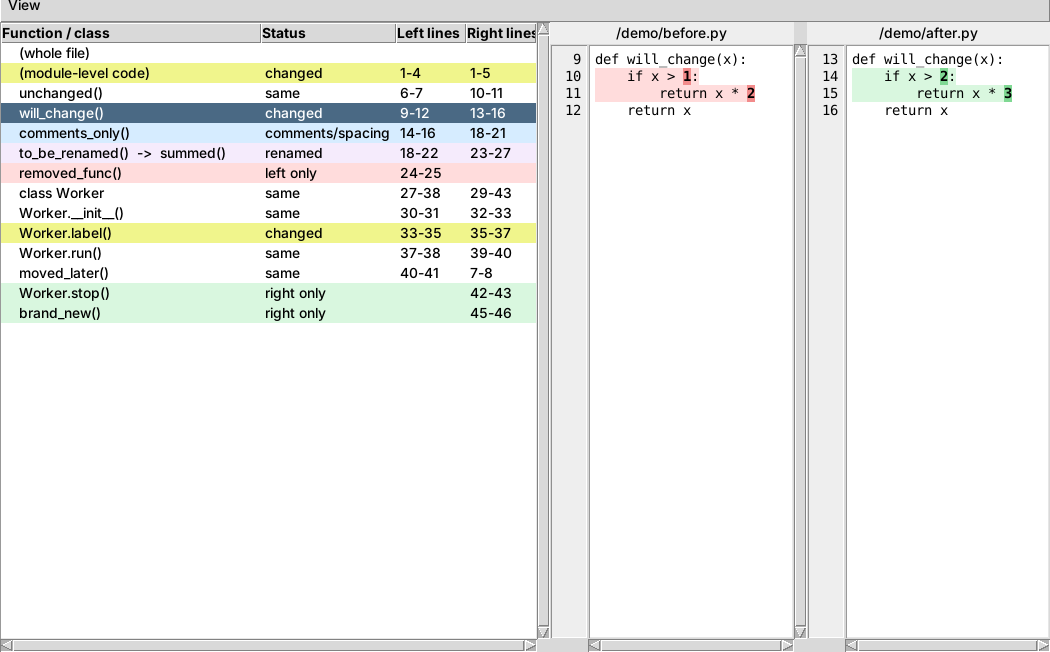
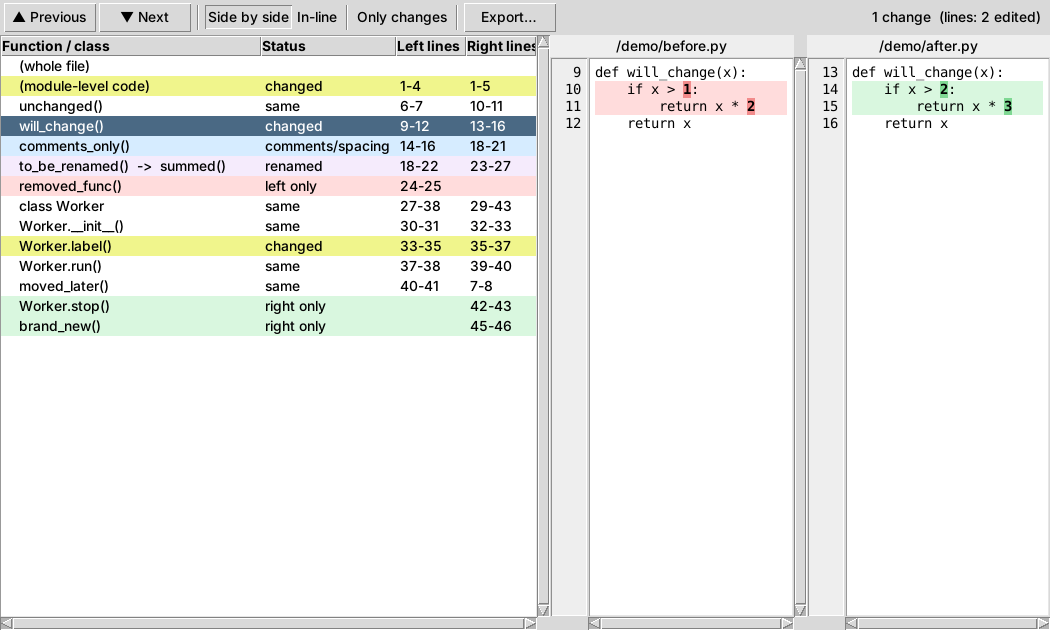
Add files via upload

diff --git a/pydiff.py b/pydiff.py
@@ -132,8 +132,10 @@ def check_dependencies():
         return False
 
     # 2. pydiff's own files (catches an incomplete download or copy).
-    for part in (('ui', 'mainwindow.py'), ('ui', 'diffview.py'), ('ui', 'functioncompare.py'),
-                 ('utilities', 'difflibparser.py')):
+    for part in (('ui', 'mainwindow.py'), ('ui', 'mainwindow_ui.py'), ('ui', 'diffview.py'),
+                 ('ui', 'functioncompare.py'), ('ui', 'searchtextdialog.py'),
+                 ('utilities', 'diffengine.py'), ('utilities', 'textfiles.py'),
+                 ('utilities', 'settings.py'), ('utilities', 'gittools.py')):
         if not os.path.isfile(os.path.join(APP_DIR, *part)):
             report('pydiff is incomplete',
                    'This file is missing:\n%s\n\nPlease download pydiff again.'

diff --git a/CHANGES.md b/CHANGES.md
@@ -10,6 +10,11 @@ Every bug listed under "Bug fixes" was reproduced with the original code before 
 
 - **8 bug fixes**: wrong or garbled text, scrolling, search, folder comparison and more.
 - **New: function-by-function comparison** for Python files.
+- **New: faster comparison engine**: large, heavily edited files compare in a fraction of a second rather than minutes.
+- **New: toolbar** with previous/next change navigation, side-by-side or **in-line** view, **only changes** mode, and **export** to HTML or .diff.
+- **New: git integration**: compare a file with its last (or any) commit, and use pydiff as git's diff viewer.
+- **New: UTF-16 and binary file handling**, encoding and line-ending notes, and an option to ignore line-ending-only differences in folder comparisons.
+- **New: start maximised**, and view choices remembered between runs.
 - **New: one-click Windows launcher** (`Run_PyDiff.bat`) with automatic dependency checks.
 - **Clearer highlighting**: readable text selection, bolder changed characters.
 - **Better error handling**: problems are reported instead of failing silently.
@@ -61,7 +66,7 @@ Every bug listed under "Bug fixes" was reproduced with the original code before 
 - **Files:** `ui/mainwindow.py`
 
 ### 8. Smaller fixes
-- The Paste menu item showed the shortcut **Ctrl+P** instead of **Ctrl+V**.
+- The Paste menu item showed the shortcut **Ctrl+P** instead of **Ctrl+V**. (Cut and Paste were later removed from the Edit menu altogether: the panes are read-only, so they never did anything.)
 - Cancelling the second file in *Compare Files* left the window half-loaded; it now cancels cleanly.
 - `utilities/fileio.py` called `showerror` without importing it, so it would crash if a file failed to load.
 - Selecting a file in the folder tree could misread paths that look like numbers (Tk converts them to integers); paths are now always treated as text.
@@ -86,8 +91,7 @@ Both files are parsed with Python's own parser (the standard `ast` module). Ever
 
 Clicking an entry shows the diff of just that function, with real line numbers. Code outside any function (imports, constants) is grouped as *(module-level code)*. A class entry covers the class's own lines (header, class attributes), while its methods are listed separately. *View → Show only differences* hides unchanged entries.
 
-- **New files:** `ui/functioncompare.py` (parsing, matching and the window), `ui/diffview.py`
-- **Why `ui/diffview.py`:** the side-by-side drawing code was moved out of `MainWindow` into a shared `render_diff()` function, so the main window and the function window use the same code. It also accepts real line numbers, so a single function shows its true position in each file.
+- **New files:** `ui/functioncompare.py` (parsing, matching and the window). The drawing is shared with the main window through `ui/diffview.py` (see below), so the function window has the same toolbar and views.
 
 ### One-click Windows launcher: `Run_PyDiff.bat`
 - Finds a working Python **3.8 or newer**. Any later version is accepted, including a future 4.x, and the newest installed is preferred. It skips the Microsoft Store placeholder `python.exe`, which isn't a real Python.
@@ -109,8 +113,48 @@ Checks are quick, and anything already installed is left alone.
 
 ### Works when downloaded as a ZIP
 - **Problem:** The original kept the diff parser (`difflibparser`) as a git *submodule*. GitHub's **Download ZIP** doesn't include submodules, so ZIP downloads had an empty `difflibparser` folder and pydiff couldn't start.
-- **Fix:** An unmodified copy of `difflibparser.py` (same author, same MIT licence, with its original copyright notice) is now included directly as `utilities/difflibparser.py`, and pydiff uses that copy. Both ZIP downloads and plain `git clone` now work with no extra steps. The old submodule folder is no longer used.
-- **Files:** `utilities/difflibparser.py` (new), `ui/diffview.py`, `pydiff.py`
+- **Fix:** At first, a copy of the parser was included directly in the repository. It has since been replaced altogether by pydiff's own comparison engine (see *New comparison engine* below), so pydiff no longer needs the submodule at all. Both ZIP downloads and plain `git clone` work with no extra steps; the old `difflibparser` submodule folder is unused.
+- **Files:** `ui/diffview.py`, `pydiff.py`
+
+### New comparison engine (much faster)
+- **Problem:** The original used `difflib.ndiff`, which compares every removed line with every added line inside a changed block, looking for the best match. On large files with lots of edits this is very slow. In testing, 600 reformatted lines took **15 seconds**, and time grows with the square of the block size.
+- **Fix:** `utilities/diffengine.py` matches whole lines first (`difflib.SequenceMatcher`), then pairs each edited line with its closest partner within a few lines, and only then works out which characters changed. As in `ndiff`, blank lines aren't used as anchors, so an inserted blank line doesn't split an edited line from its new version.
+- **Result:** the same 3,000-line reformatted file takes **0.7 seconds**; two 20,000-line files with 2,000 scattered edits are compared *and drawn* in about **0.2 seconds**. Drawing is also faster: all text is inserted in one go and then coloured, instead of line by line and character by character.
+- The engine produces one shared list of rows, which the side-by-side view, the in-line view, *Only changes*, navigation and export all use.
+- **Files:** `utilities/diffengine.py` (new). The old `difflibparser` is no longer used.
+
+### Toolbar and views (`ui/diffview.py`)
+A toolbar above the panes, in both the main window and the function window:
+- **▲ Previous / ▼ Next change** (also **Alt+Up / Alt+Down**, and in the View menu). The status text shows *"Change 3 of 12"* and the change's line numbers are highlighted.
+- **Side by side / In-line.** The in-line view uses one pane: in each block of changes, the removed lines (red, marked `-`) are shown above the added ones (green, `+`), with both files' line numbers in the margin, as on GitHub.
+- **Only changes** hides unchanged stretches, leaving a bar saying *"⋯ 120 unchanged lines hidden ⋯"*. *View → Lines of Context Around Changes* sets how many unchanged lines are kept around each change (default 3).
+- **Status text** summarising the differences (*"5 changes (lines: 3 edited, 1 removed, 4 added)"*), plus notes when the two files' encodings or line endings differ.
+- **Go To Line** now goes to the correct line in every view (it uses the real line numbers, not screen position).
+
+### Export results
+**File → Export Results…** (**Ctrl+E**) or the **Export…** button saves:
+- an **HTML report**: a self-contained web page matching the current view (side by side or in-line, all lines or only changes), with the same colours and character-level highlighting. It offers to open it in your browser straight away.
+- a **unified diff / patch file** (`.diff`, `.patch`): the standard format used by git and patch tools.
+
+### Git integration (`utilities/gittools.py`)
+A new **Git** menu:
+- **Compare File With Last Commit** (**Ctrl+L**) and **Compare File With Commit…** (any commit, branch or tag, e.g. `HEAD~1`). The committed version is fetched with `git show` into a temporary file and compared with the current file. Clear messages explain if git isn't installed, the file isn't in a repository, the commit doesn't exist, or the file is new since that commit.
+- **Use pydiff as Git's Diff Viewer…** shows the exact commands, asks first, then registers pydiff with `git config --global` so that `git difftool` (and `git difftool -d` for whole folders) opens pydiff. `git diff` is unaffected. Tested with paths containing spaces.
+
+### Text encodings and binary files (`utilities/textfiles.py`)
+- **UTF-16** text files (with or without a byte-order mark) are now read correctly. Before, they showed as spaced-out gibberish. Windows writes UTF-16 for registry exports, some PowerShell output, and Notepad's "Unicode" option.
+- **Binary files** (images, PDFs, Word documents ...) are recognised. Instead of gibberish, pydiff says it can't show their contents and whether the two files are identical or different.
+- Lines are split only on real line endings. Python's `splitlines()` also splits on form feeds and some other characters, which could throw line numbers out compared with a text editor.
+
+### Line endings in folder comparisons
+- Files that differ only in their line endings (Windows CRLF vs Unix LF) are shown in **blue** instead of yellow, and don't mark their folder as changed. *View → Folders: Ignore Line-Ending-Only Differences* turns this off. The comparison itself reports *"Line endings: CRLF → LF"*.
+
+### Start maximised and remembered settings (`utilities/settings.py`)
+- **View → Start Maximised** opens pydiff full-screen every time.
+- The view mode, *Only changes*, context lines, *Start maximised* and the line-endings option are remembered in `.pydiff_settings.json` in the user's home folder. If the file can't be written, nothing breaks.
+
+### Not done: diff-match-patch
+A suggestion on the original project was to use Google's *diff-match-patch* library. Its main advantage would be speed on large files, which the new engine already provides, without adding a third-party package. So it wasn't added.
 
 ## Display and usability
 
@@ -131,6 +175,7 @@ Checks are quick, and anything already installed is left alone.
 
 - Paths can now be given directly (`pydiff.py a.py b.py`) as well as with the original `-p a.py b.py`.
 - New options: `-f` / `--functions` and `--check-deps`.
+- New keyboard shortcuts: **Ctrl+O** (compare files), **Ctrl+E** (export), **Ctrl+L** (compare with last commit), **Alt+Up/Down** (previous/next change).
 - pydiff can be started from any folder. It no longer has to be run from inside its own folder.
 
 ---
@@ -138,7 +183,8 @@ Checks are quick, and anything already installed is left alone.
 ## Compatibility notes
 
 - **Python 3.8 or newer is required.** The original README targeted Python 2.7, which has been unsupported since 2020. The Python 2 import fallbacks in the UI files were left in place but are no longer used.
-- The diff parser is **unchanged**. It is now included as `utilities/difflibparser.py` instead of being fetched as a git submodule.
+- The original `difflibparser` submodule is no longer used; pydiff's own engine (`utilities/diffengine.py`) replaces it. The submodule entry is left in place but is harmless.
+- Every new option is off or matches the old behaviour by default, except two corrections: UTF-16 and binary handling, and line-ending-only differences shown in blue in folder comparisons (which can be switched off).
 - Everything that worked before still works the same way. The new features are additions.
 
 ## Files changed
@@ -146,16 +192,19 @@ Checks are quick, and anything already installed is left alone.
 | File | Status | Summary |
 |---|---|---|
 | `pydiff.py` | modified | dependency checks, argument handling, error reporting, DPI fix |
-| `ui/mainwindow.py` | modified | bug fixes 1, 4-8; Compare Functions menu; uses shared `render_diff` |
-| `ui/mainwindow_ui.py` | modified | scrolling fix, colours, selection, bold changed characters |
+| `ui/mainwindow.py` | modified | bug fixes 1, 4-8; new menus (View, Git); binary/encoding handling; folder line-ending option |
+| `ui/mainwindow_ui.py` | modified | scrolling fix, colours, selection, bold changed characters, toolbar row, menu check/radio items |
 | `ui/searchtextdialog.py` | modified | search position fix |
 | `utilities/fileio.py` | modified | missing import, UTF-8 reading |
-| `ui/diffview.py` | **new** | shared side-by-side diff drawing |
+| `ui/diffview.py` | **new** | toolbar, side-by-side and in-line views, only-changes, navigation, export |
 | `ui/functioncompare.py` | **new** | function-by-function comparison |
-| `utilities/difflibparser.py` | **new** | unmodified copy of the original diff parser, so ZIP downloads work |
+| `utilities/diffengine.py` | **new** | fast comparison engine |
+| `utilities/textfiles.py` | **new** | encoding detection (UTF-8/UTF-16/ANSI), binary detection, line endings |
+| `utilities/gittools.py` | **new** | git integration |
+| `utilities/settings.py` | **new** | remembered settings |
 | `Run_PyDiff.bat` | **new** | Windows one-click launcher |
 | `CHANGES.md` | **new** | this file |
-| `screenshot_main.png`, `screenshot_functions.png` | **new** | screenshots for the README |
+| `screenshot_main.png`, `screenshot_inline.png`, `screenshot_functions.png` | **new** | screenshots for the README |
 | `README.md` | rewritten | clearer setup and usage instructions |
 | `LICENSE` | modified | added a copyright line for the modifications; original notice kept |
 

diff --git a/README.md b/README.md
@@ -1,10 +1,12 @@
 # pydiff - A Minimalistic Difflib GUI
 
-A simple desktop app for comparing two text files, or two folders, side by side, with the differences highlighted. It also has a **function-by-function comparison mode for Python files**.
+A simple desktop app for comparing two text files, or two folders, side by side or in-line, with the differences highlighted. It also has a **function-by-function comparison mode for Python files** and **git integration**.
 
-This is a modified version of [pydiff](https://github.com/yelsayd/pydiff) by Yasser Elsayed. It fixes a number of bugs, adds function-level comparison and adds a one-click Windows launcher. See [CHANGES.md](CHANGES.md) for exactly what changed and why.
+This is a modified version of [pydiff](https://github.com/yelsayd/pydiff) by Yasser Elsayed. It fixes a number of bugs and adds many features: function-level comparison, a faster comparison engine, an in-line view, change navigation, export, git integration and a one-click Windows launcher. See [CHANGES.md](CHANGES.md) for exactly what changed and why.
 
-![Comparing two files](screenshot_main.png)
+![Comparing two files side by side](screenshot_main.png)
+
+![In-line view, showing only the changes](screenshot_inline.png)
 
 ![Comparing two Python files function by function](screenshot_functions.png)
 
@@ -15,13 +17,14 @@ This is a modified version of [pydiff](https://github.com/yelsayd/pydiff) by Yas
 - **Python 3.8 or newer**, from [python.org](https://www.python.org/downloads/).
   When installing on Windows, tick **"Add python.exe to PATH"**. Also leave **"tcl/tk and IDLE"** selected (it is by default), because pydiff's window toolkit, Tkinter, comes from there.
 - No other packages. pydiff uses only the Python standard library.
+- *Optional:* [git](https://git-scm.com/downloads), for the Git menu.
 
 ## Getting it
 
 Either:
 
 - **Download ZIP:** click the green **Code** button on this page, then **Download ZIP**, and unzip it anywhere, or
-- **Clone with git:** `git clone https://github.com/YOUR-USERNAME/pydiff.git`
+- **Clone with git:** `git clone https://github.com/Constantinos999/pydiff.git`
 
 Everything pydiff needs is included either way.
 
@@ -31,7 +34,7 @@ Everything pydiff needs is included either way.
 
 Double-click **`Run_PyDiff.bat`**. It:
 
-1. finds Python on your PC (and offers to install it if there isn't one),
+1. finds Python on your PC (the newest 3.8+ installed; it offers to install Python if there isn't one),
 2. checks that everything pydiff needs is present and fixes anything missing,
 3. opens pydiff without leaving a command window open.
 
@@ -51,9 +54,23 @@ python pydiff.py --check-deps             # just check the dependencies
 
 ## Using it
 
+### The toolbar
+
+| Button | What it does |
+|---|---|
+| **▲ Previous / ▼ Next** | jump to the previous / next change (also **Alt+Up / Alt+Down**). The status text shows e.g. *"Change 3 of 12"*, and the line numbers of that change are highlighted in blue |
+| **Side by side / In-line** | two panes, or one pane with each removed line (red, `-`) shown above its replacement (green, `+`), like GitHub |
+| **Only changes** | hides unchanged stretches, keeping a few lines of context around each change. Set how many under *View → Lines of Context Around Changes* |
+| **Export…** | save the comparison as an **HTML report** (opens in any web browser; matches the current view) or a standard **.diff / .patch** file (also **Ctrl+E**) |
+| **Compare functions** | the function-by-function view for Python files (also **Ctrl+K**) |
+
+The status text on the right summarises the differences, e.g. *"5 changes (lines: 3 edited, 1 removed, 4 added)"*. It also notes when the files use a different **encoding** (e.g. UTF-8 vs UTF-16) or different **line endings** (Windows CRLF vs Unix LF).
+
+Your choices (view mode, *Only changes*, context lines, *Start maximised*) are remembered for next time.
+
 ### Comparing two files
 
-**File → Compare Files**: pick the left file, then the right file.
+**File → Compare Files** (**Ctrl+O**): pick the left file, then the right file.
 
 | Colour | Meaning |
 |---|---|
@@ -64,6 +81,8 @@ python pydiff.py --check-deps             # just check the dependencies
 
 Both panes scroll together. Line numbers are each file's real line numbers.
 
+**Which files work?** Any plain-text file: code in any language, `.txt`, `.csv`, `.log`, `.ini`, `.md`, `.html`, `.json` and so on. Encodings are detected automatically: UTF-8, UTF-16 (e.g. Windows registry exports, some PowerShell output) and Windows ANSI/ASCII. For files that aren't text (images, PDFs, Word documents), pydiff tells you whether the two files are identical or different, rather than showing gibberish.
+
 ### Comparing two folders
 
 **File → Compare Directories**: pick the left folder, then the right folder. The tree on the left shows every file and folder:
@@ -73,6 +92,7 @@ Both panes scroll together. Line numbers are each file's real line numbers.
 | Red | only in the left folder |
 | Green | only in the right folder |
 | Yellow | in both, but different |
+| Blue | in both; only the line endings differ (Windows vs Unix). Switch this off under *View → Folders: Ignore Line-Ending-Only Differences* to show them as yellow |
 | Purple | a folder that contains differences somewhere inside |
 | White | identical |
 
@@ -80,7 +100,7 @@ Click a file in the tree to see its comparison.
 
 ### Comparing Python files function by function
 
-**File → Compare Functions (Python)**, or **Ctrl+K**.
+**File → Compare Functions (Python)**, **Ctrl+K**, or the **Compare functions** button.
 
 Line-by-line comparison gets confusing when functions have been moved around, renamed, or only had their comments tidied. This mode reads both files as Python code, matches every function, class and method **by name**, and lists them with a status:
 
@@ -93,31 +113,53 @@ Line-by-line comparison gets confusing when functions have been moved around, re
 | left only | red | removed in the right file |
 | right only | green | added in the right file |
 
-- Click an entry to see the diff of **just that function**, with its real line numbers in each file.
+- Click an entry to see the diff of **just that function**, with its real line numbers in each file. The toolbar (next/previous, in-line, only changes, export) works here too.
 - **(whole file)** shows the normal full comparison; **(module-level code)** covers imports, constants and other code outside functions.
-- **View → Show only differences** hides everything marked *same*.
+- **View → List: Only Differences** hides everything marked *same*.
 - The window title gives a summary, e.g. *"3 changed, 1 renamed, 5 same"*.
 
 This mode needs files that are valid **Python 3** code. For anything else, use the normal comparison.
+
+### Git integration
+
+The **Git** menu (needs [git](https://git-scm.com/downloads) installed):
+
+- **Compare File With Last Commit** (**Ctrl+L**): pick a file in a git repository, and see what you've changed since your last commit.
+- **Compare File With Commit…**: the same, against any commit, branch or tag (e.g. `HEAD~1` = the commit before last, `main`, `v1.0`).
+- **Use pydiff as Git's Diff Viewer…**: registers pydiff with git, after asking you first. Then, in any repository:
+  - `git difftool` compares each changed file in pydiff,
+  - `git difftool -d` compares the whole folder at once,
+  - `git difftool HEAD~1` compares with the commit before last.
+
+  Your normal `git diff` is not affected.
 
 ### Keyboard shortcuts
 
 | Keys | Action |
 |---|---|
+| Ctrl+O | compare files |
+| Alt+Down / Alt+Up | next / previous change |
 | Ctrl+F | find text (Enter or F3 for the next match, Esc to close) |
-| Ctrl+G | go to line |
+| Ctrl+G | go to line (of the left file) |
 | Ctrl+K | compare functions |
+| Ctrl+E | export results |
+| Ctrl+L | compare with last git commit |
 | Ctrl+C | copy selected text |
+
+### Start maximised
+
+**View → Start Maximised** makes pydiff open full-screen every time.
 
 ## If something goes wrong
 
 - Error messages appear in a pop-up. If pydiff crashes, the details are saved to `pydiff_error.log` in the pydiff folder. Please include that file if you open an issue.
 - **"Tkinter is missing"**: run the Python installer again, choose *Modify*, and tick *tcl/tk and IDLE*.
 - **Nothing happens when double-clicking `Run_PyDiff.bat`**: open a command prompt in the pydiff folder and run `python pydiff.py --check-deps` to see the message.
+- Your settings are kept in `.pydiff_settings.json` in your home folder. Delete it to go back to the defaults.
 
 ## Credits and licence
 
 - Original pydiff and difflibparser: **Yasser Elsayed** (2016).
-- Bug fixes, function comparison and Windows launcher: **Constantinos999** (2026). See [CHANGES.md](CHANGES.md).
+- Bug fixes, new comparison engine, function comparison, git integration, export, views and Windows launcher: **Constantinos999** (2026). See [CHANGES.md](CHANGES.md).
 
 Released under the **MIT License**, the same licence as the original. See [LICENSE](LICENSE). You're free to use, modify and share it, as long as the copyright notices and licence text are kept.
